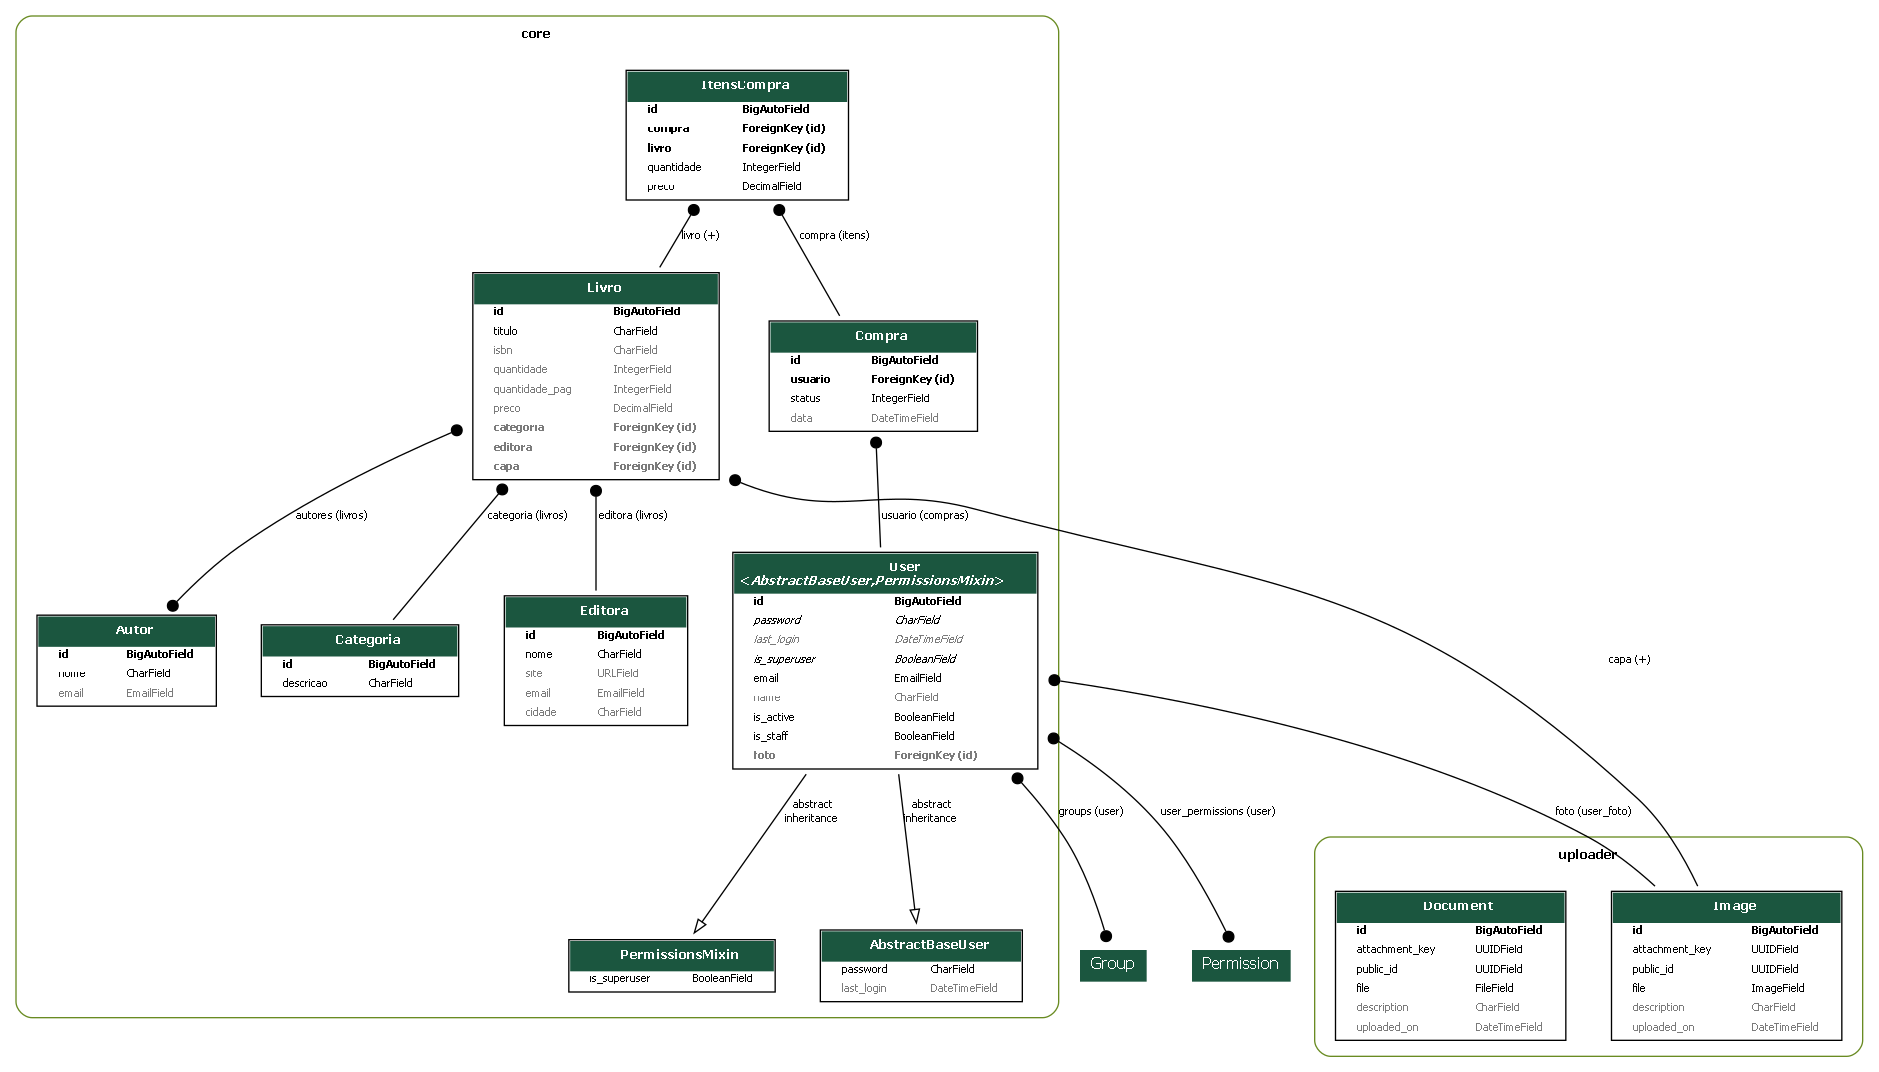
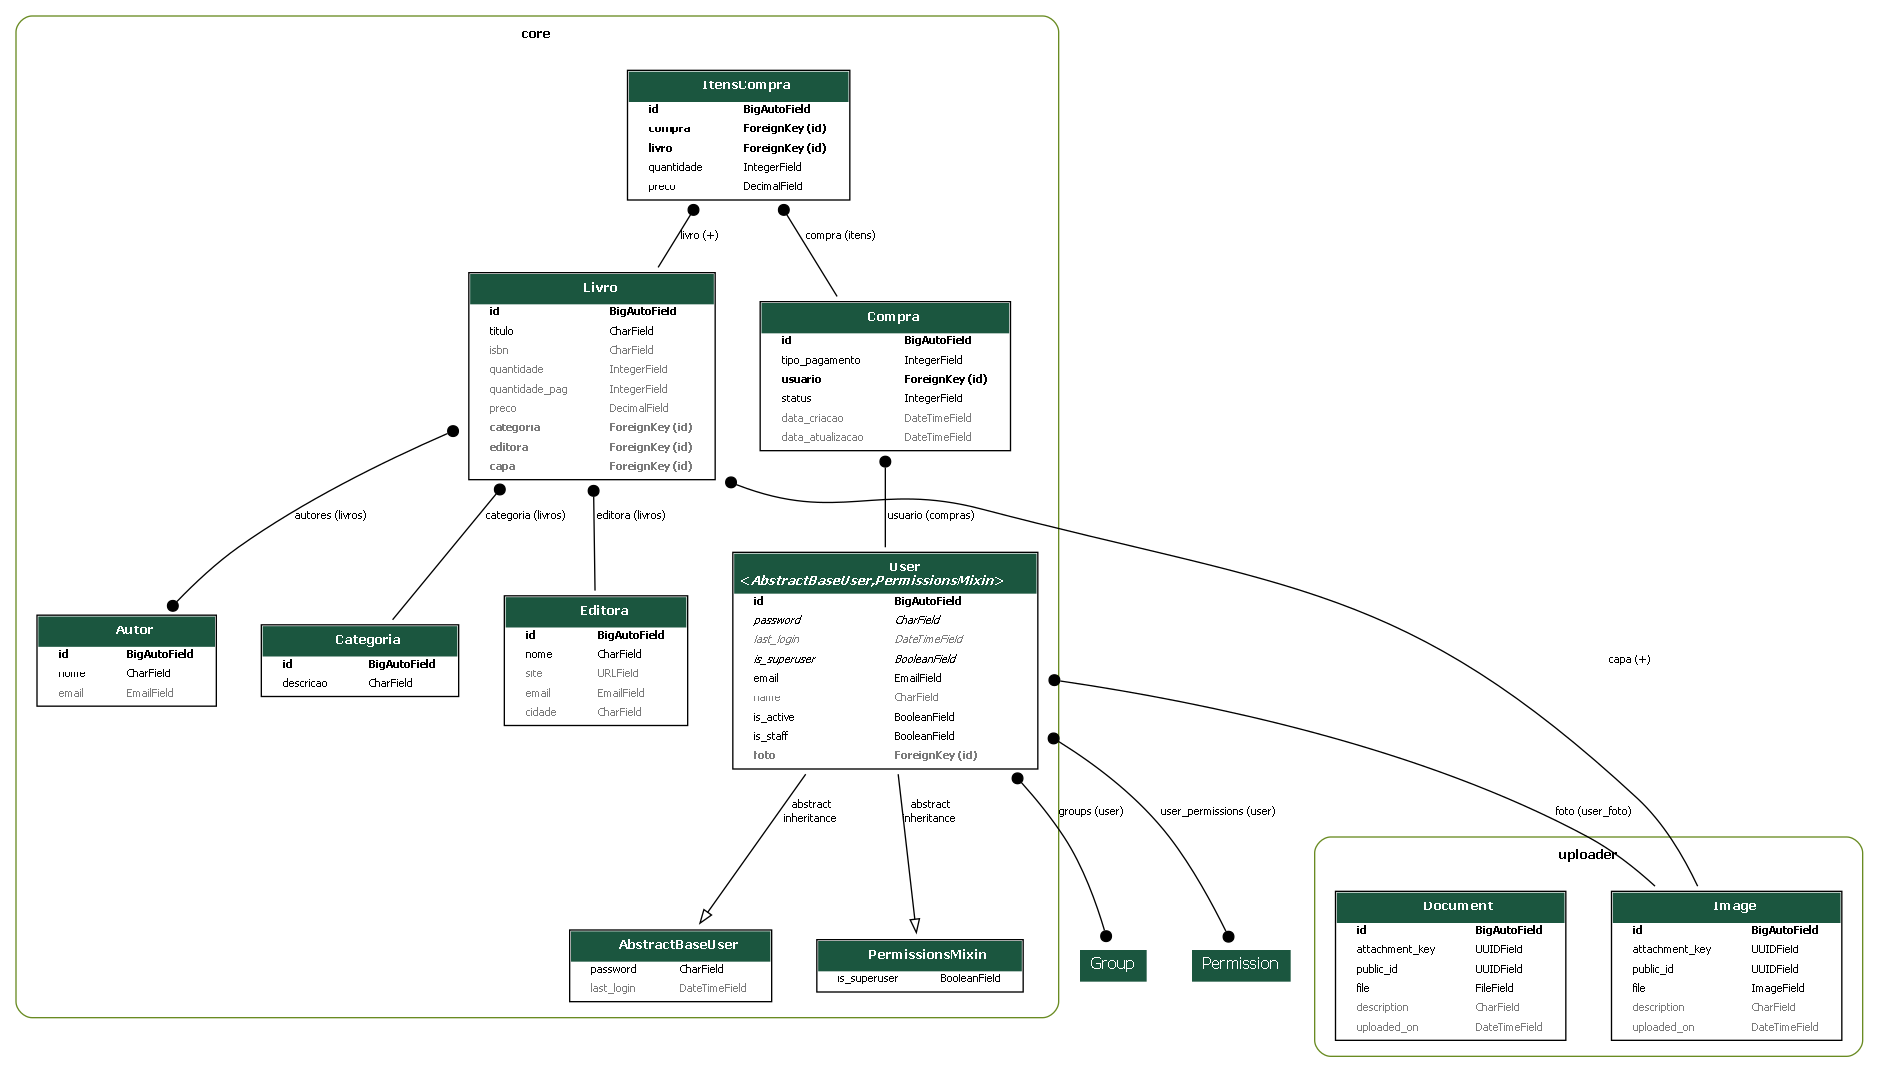
feat: adicionando tipo de pagamento à entidade de Compra; Atividade proposta na 33 e 34

diff --git a/core/admin.py b/core/admin.py
@@ -22,18 +22,18 @@ class CompraAdmin(ModelAdmin):
         """Exibe R$ 123,45 em vez de 123.45."""
         return f"R$ {obj.total:.2f}"
 
-    list_display = ('usuario', 'status', 'total_formatado', 'data')  # mostra na listagem
-    ordering = ('usuario', 'status', 'data')  # ordena por esses campos
+    list_display = ('usuario', 'status', 'total_formatado', 'data_criacao', 'data_atualizacao')  # mostra na listagem
+    ordering = ('usuario', 'status', 'data_criacao')  # ordena por esses campos
     search_fields = ('usuario__email', 'status')  # campos pesquisáveis
-    list_filter = ('status', 'data')  # filtros laterais
+    list_filter = ('status', 'data_criacao')  # filtros laterais
     list_per_page = 10
     inlines = [ItensCompraInline]
-    readonly_fields = ('data', 'total_formatado',)  # campos somente leitura
+    readonly_fields = ('data_criacao', 'data_atualizacao', 'total_formatado')  # campos somente leitura
 
 
 @register(Autor)
 class AutorAdmin(ModelAdmin):
-    list_display = ('nome', 'email')
+    list_display = ('nome', 'email',)
     search_fields = ('nome', 'email')
     list_filter = ('nome',)
     ordering = ('nome', 'email')

diff --git a/core/models/compra.py b/core/models/compra.py
@@ -4,15 +4,30 @@ from .user import User
 from .livro import Livro
 
 class Compra(models.Model):
+    class TipoPagamento(models.IntegerChoices):
+        CARTAO_CREDITO = 1, 'Cartão de Crédito'
+        CARTAO_DEBITO = 2, 'Cartão de Débito'
+        PIX = 3, 'PIX'
+        BOLETO = 4, 'Boleto'
+        TRANSFERENCIA_BANCARIA = 5, 'Transferência Bancária'
+        DINHEIRO = 6, 'Dinheiro'
+        OUTRO = 7, 'Outro'
+        CHEQUE = 8, 'Cheque'
+
     class StatusCompra(models.IntegerChoices):
         CARRINHO = 1, 'Carrinho'
         FINALIZADO = 2, 'Finalizado'
         PAGO = 3, 'Pago'
         ENTREGUE = 4, 'Entregue'
 
+    tipo_pagamento = models.IntegerField(
+        choices=TipoPagamento.choices,
+        default=TipoPagamento.CARTAO_CREDITO
+    )
     usuario = models.ForeignKey(User, on_delete=models.PROTECT, related_name='compras')
     status = models.IntegerField(choices=StatusCompra.choices,  default=StatusCompra.CARRINHO)
-    data = models.DateTimeField(auto_now_add=True)
+    data_criacao = models.DateTimeField(auto_now_add=True)
+    data_atualizacao = models.DateTimeField(auto_now=True)
 
     @property
     def total(self):

diff --git a/core/serializers/compra.py b/core/serializers/compra.py
@@ -1,5 +1,7 @@
 from core.models import Compra, ItensCompra
 from django.db import transaction
+from rest_framework import serializers
+
 
 from rest_framework.serializers import (
     CharField,
@@ -92,8 +94,10 @@ class CompraListSerializer(ModelSerializer):
 class CompraSerializer(ModelSerializer):
     usuario = CharField(source='usuario.email', read_only=True)
     status = CharField(source='get_status_display', read_only=True)
-    data = DateTimeField(read_only=True)
+    tipo_pagamento = CharField(source='get_tipo_pagamento_display', read_only=True)
+    data_criacao = serializers.DateTimeField(read_only=True)
+    data_atualizacao = serializers.DateTimeField(read_only=True)
     itens = ItensCompraSerializer(many=True, read_only=True)
     class Meta:
         model = Compra
-        fields = ('id', 'usuario', 'status', 'total', 'data', 'itens')
+        fields = ('id', 'usuario', 'status', 'tipo_pagamento', 'total', 'data_criacao', 'data_atualizacao', 'itens')

diff --git a/core/migrations/0018_compra_tipo_pagamento.py b/core/migrations/0018_compra_tipo_pagamento.py
@@ -1,0 +1,18 @@
+# Generated by Django 5.2.13 on 2026-09-22 17:24
+
+from django.db import migrations, models
+
+
+class Migration(migrations.Migration):
+
+    dependencies = [
+        ('core', '0017_compra_data_itenscompra_preco'),
+    ]
+
+    operations = [
+        migrations.AddField(
+            model_name='compra',
+            name='tipo_pagamento',
+            field=models.IntegerField(choices=[(1, 'Cartão de Crédito'), (2, 'Cartão de Débito'), (3, 'PIX'), (4, 'Boleto'), (5, 'Transferência Bancária'), (6, 'Dinheiro'), (7, 'Outro')], default=1),
+        ),
+    ]

diff --git a/core/migrations/0019_rename_data_compra_data_criacao_and_more.py b/core/migrations/0019_rename_data_compra_data_criacao_and_more.py
@@ -1,0 +1,23 @@
+# Generated by Django 5.2.13 on 2026-09-22 17:54
+
+from django.db import migrations, models
+
+
+class Migration(migrations.Migration):
+
+    dependencies = [
+        ('core', '0018_compra_tipo_pagamento'),
+    ]
+
+    operations = [
+        migrations.RenameField(
+            model_name='compra',
+            old_name='data',
+            new_name='data_criacao',
+        ),
+        migrations.AddField(
+            model_name='compra',
+            name='data_atualizacao',
+            field=models.DateTimeField(auto_now=True),
+        ),
+    ]
